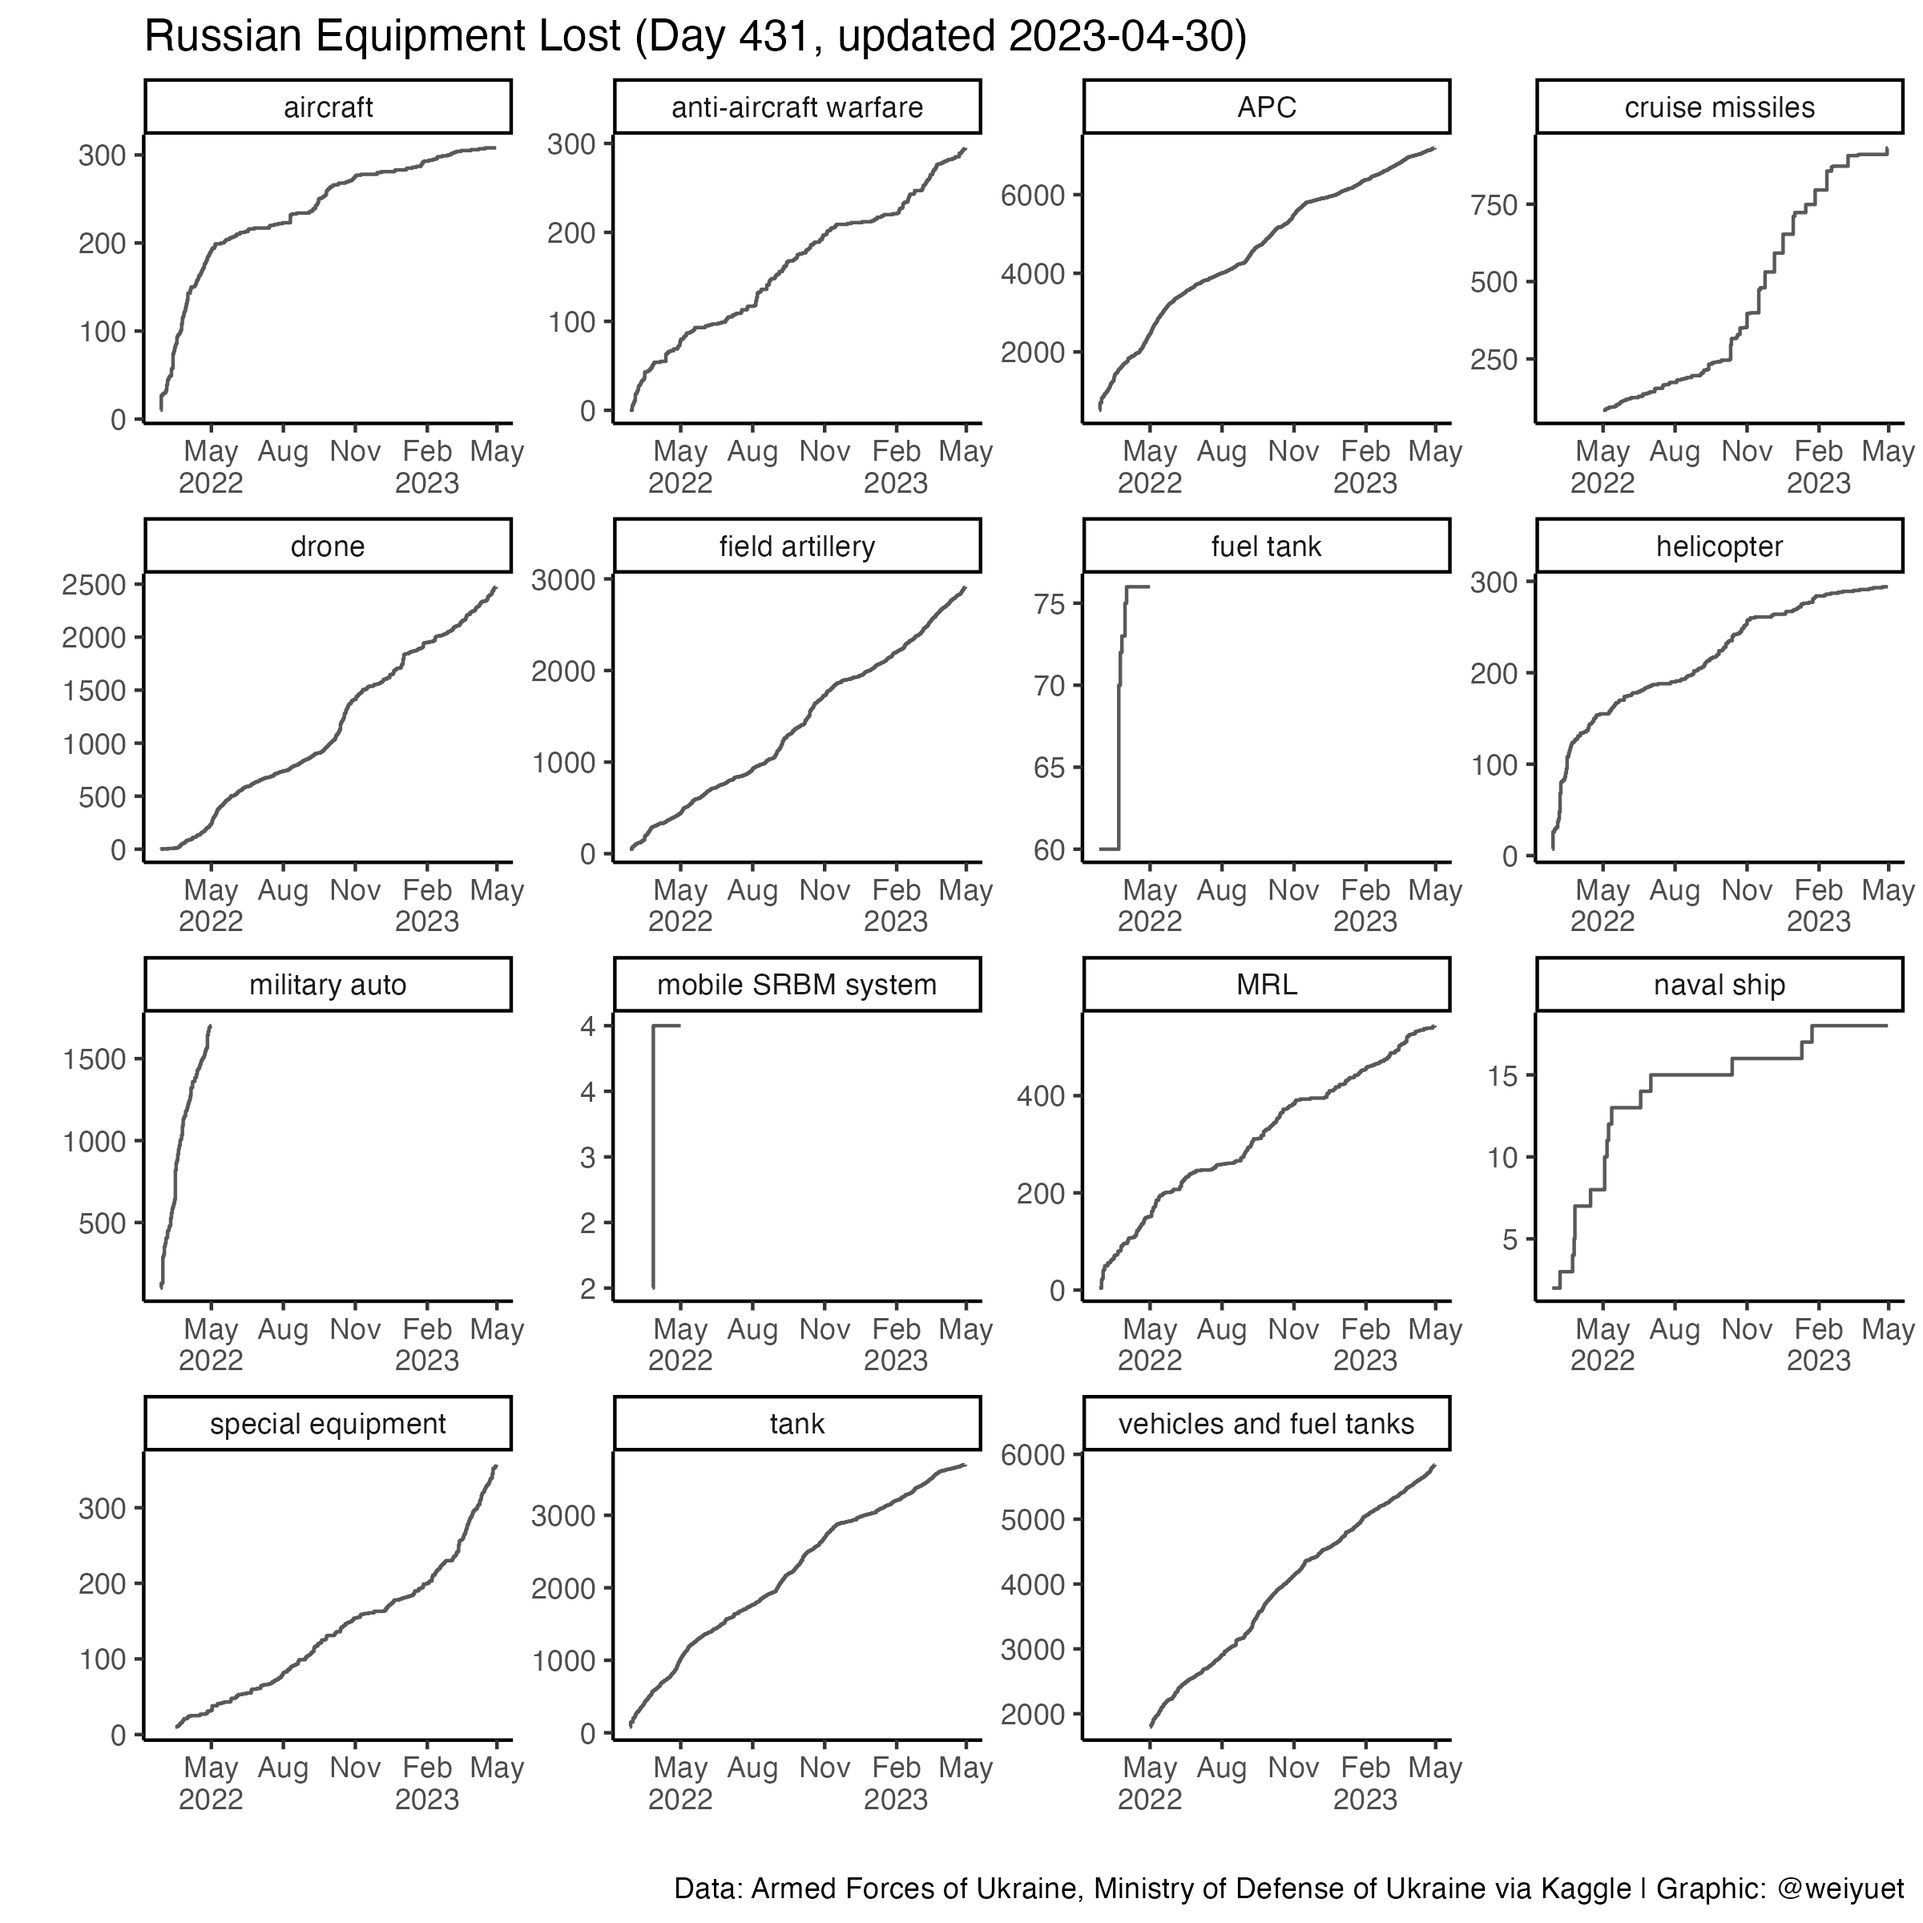
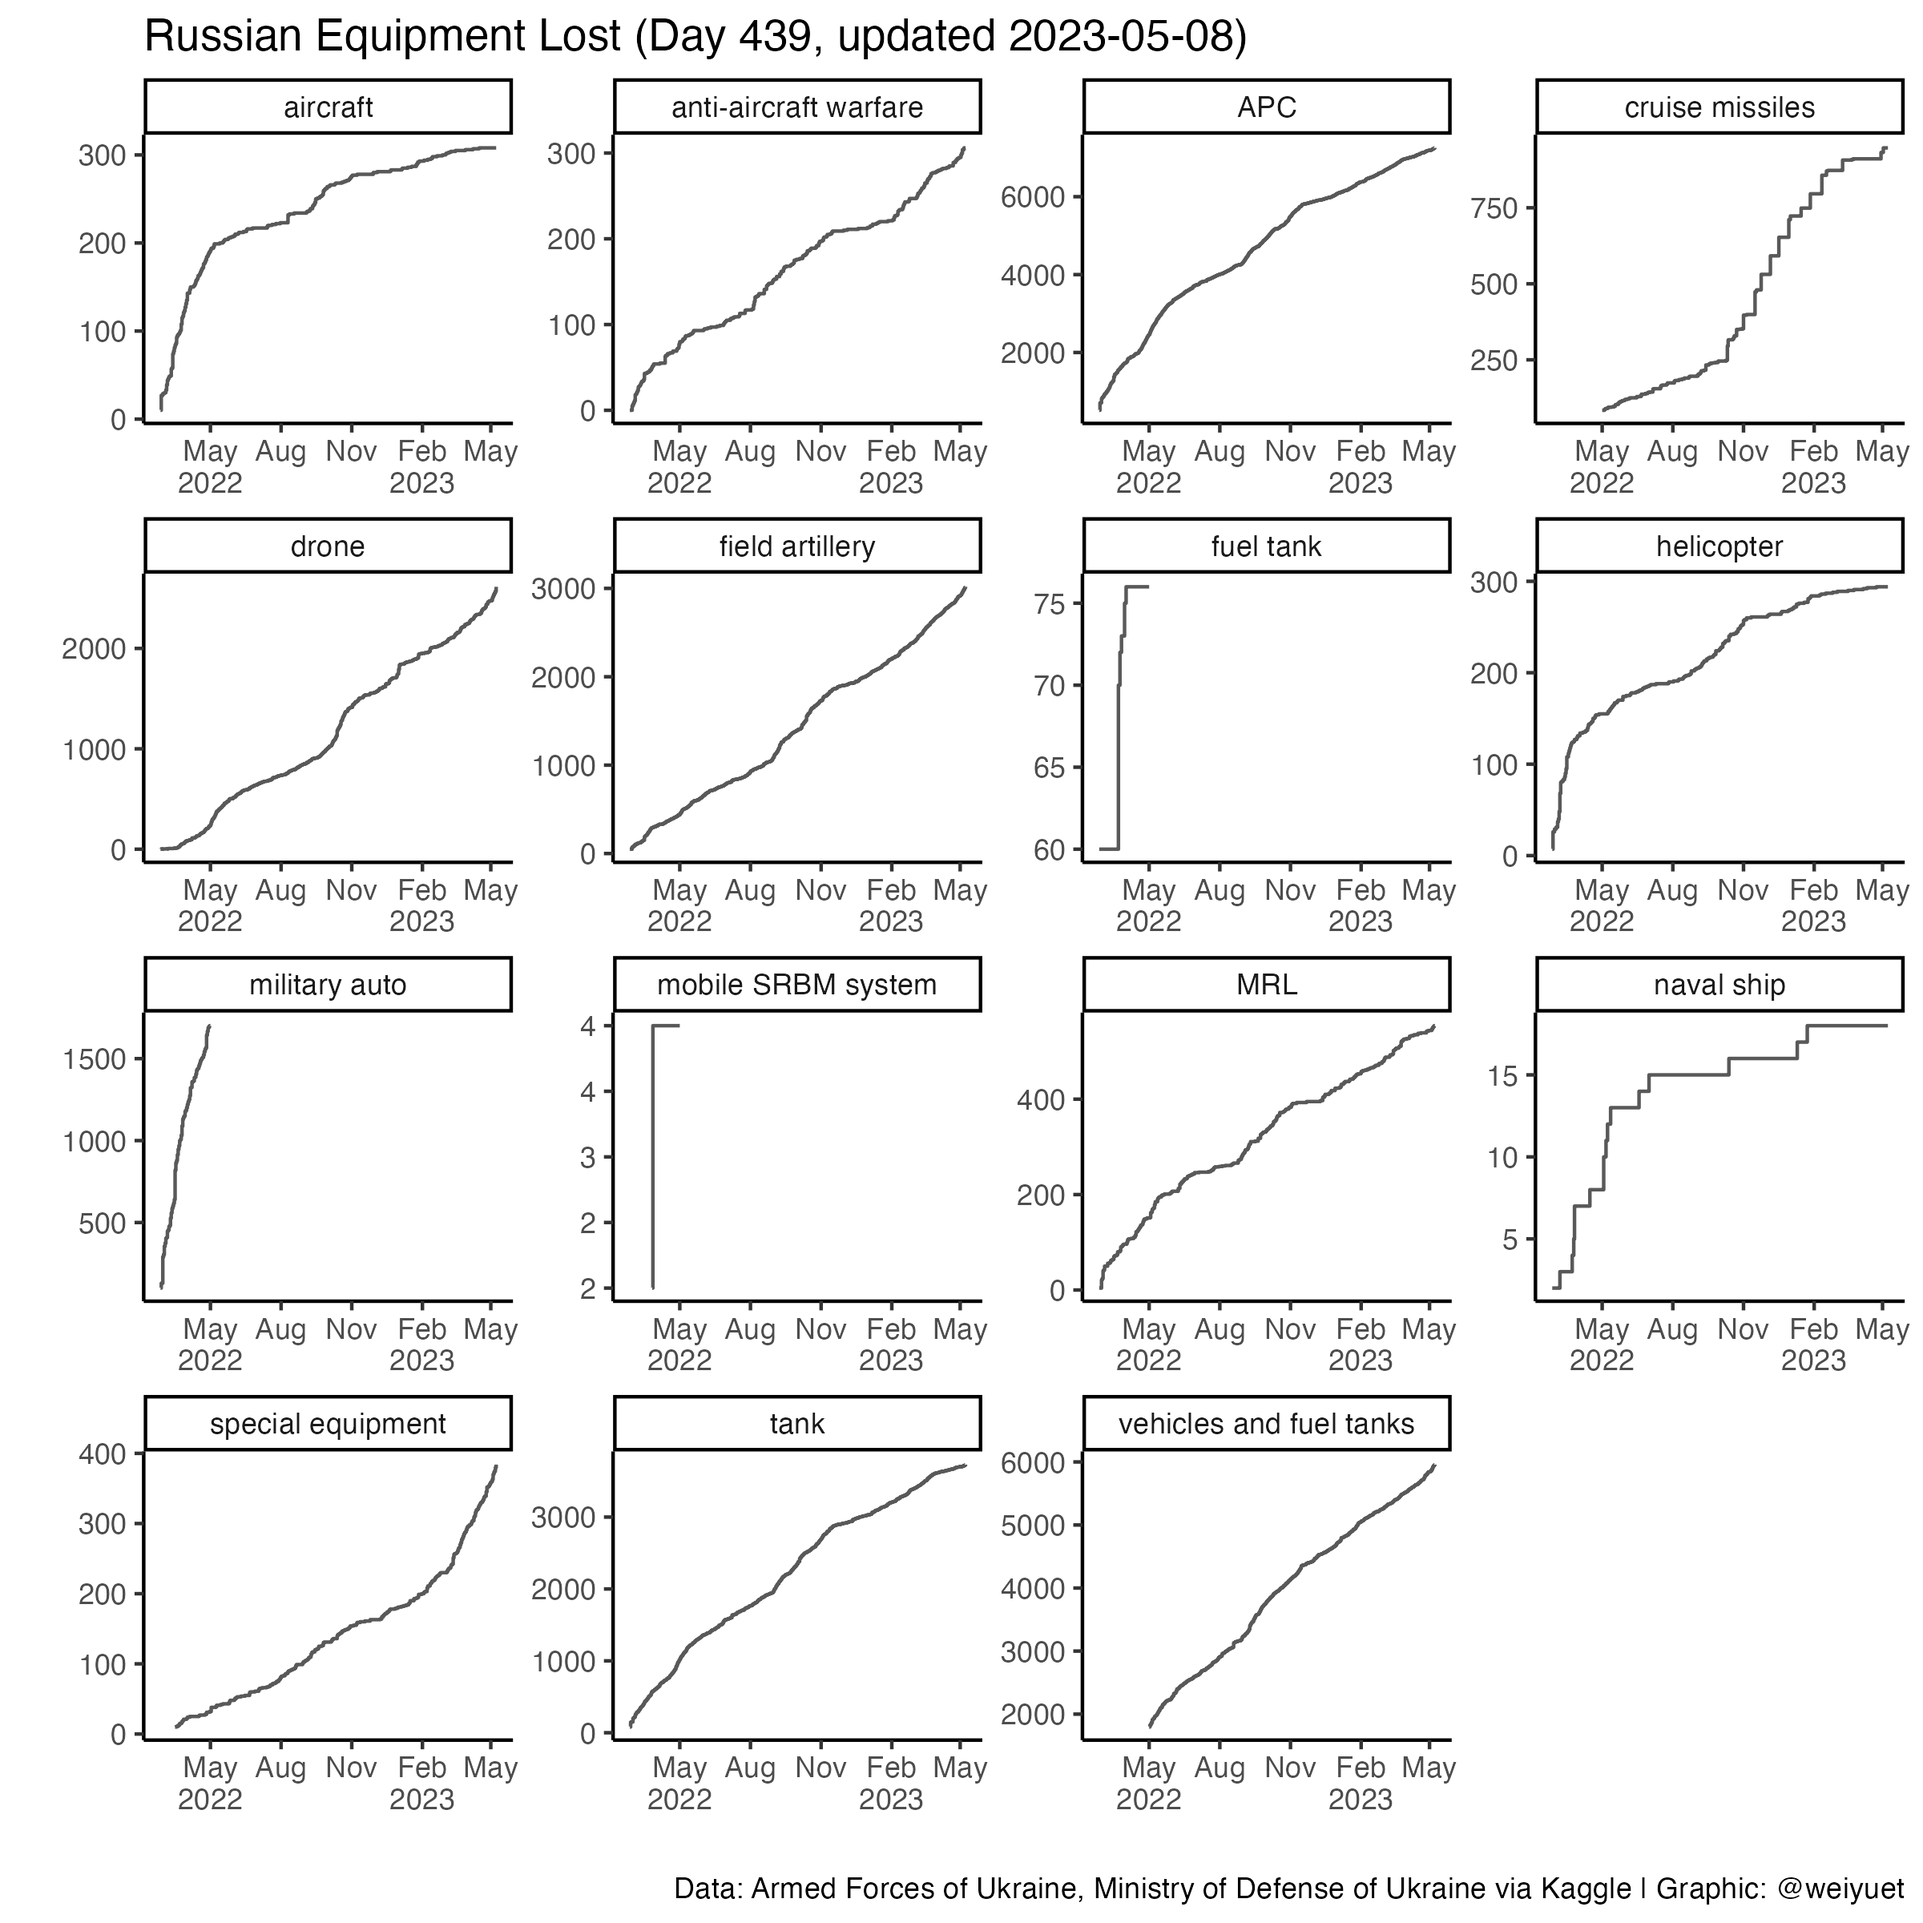
Updated 8 May

diff --git a/README.md b/README.md
@@ -6,7 +6,7 @@ Wong Wei Yuet 2022-05-26
 
   - War casualty data updated daily from [`Petro Ivanyuk's Kaggle`](https://www.kaggle.com/datasets/piterfm/2022-ukraine-russian-war). All data is official and put together by `Petro`
 
-Updated: 2023-05-02
+Updated: 2023-05-08
 
 ## Summary of Conflict
 
